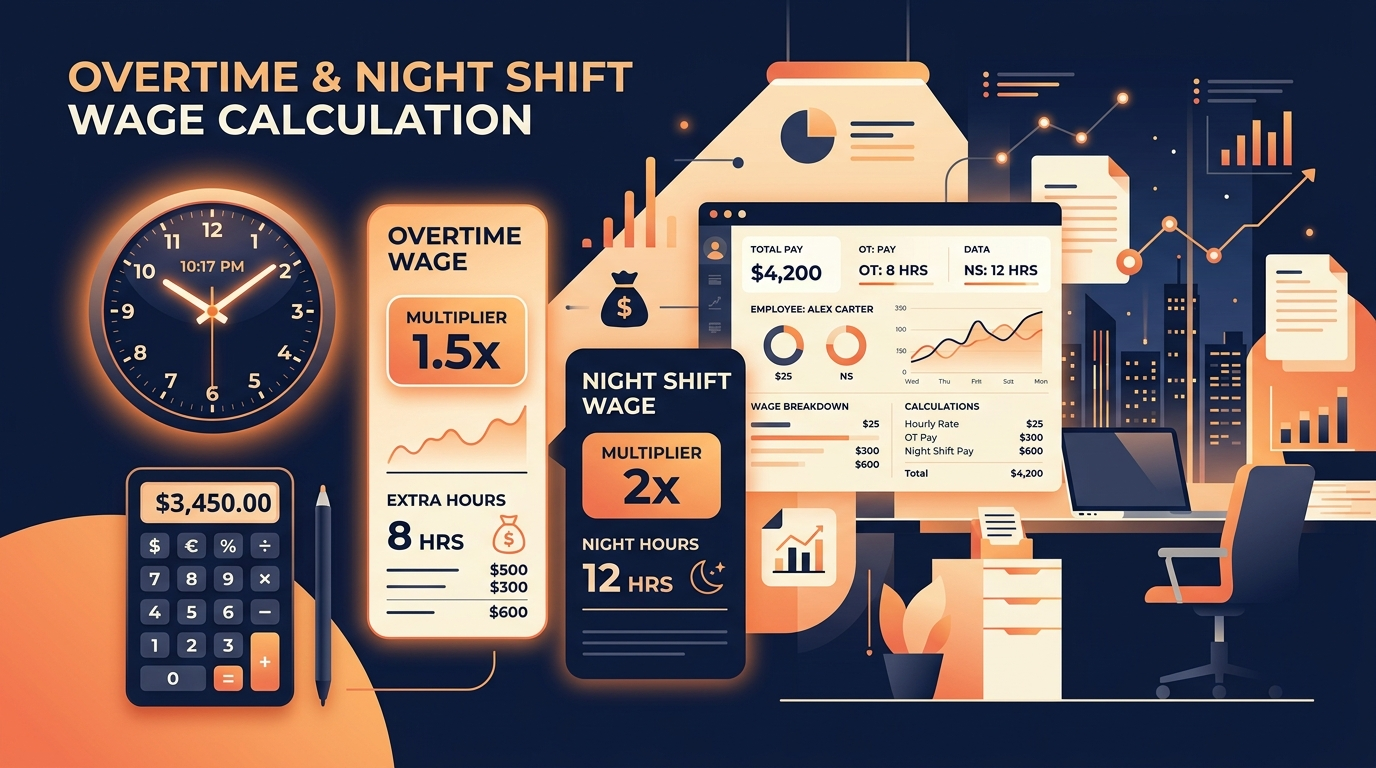
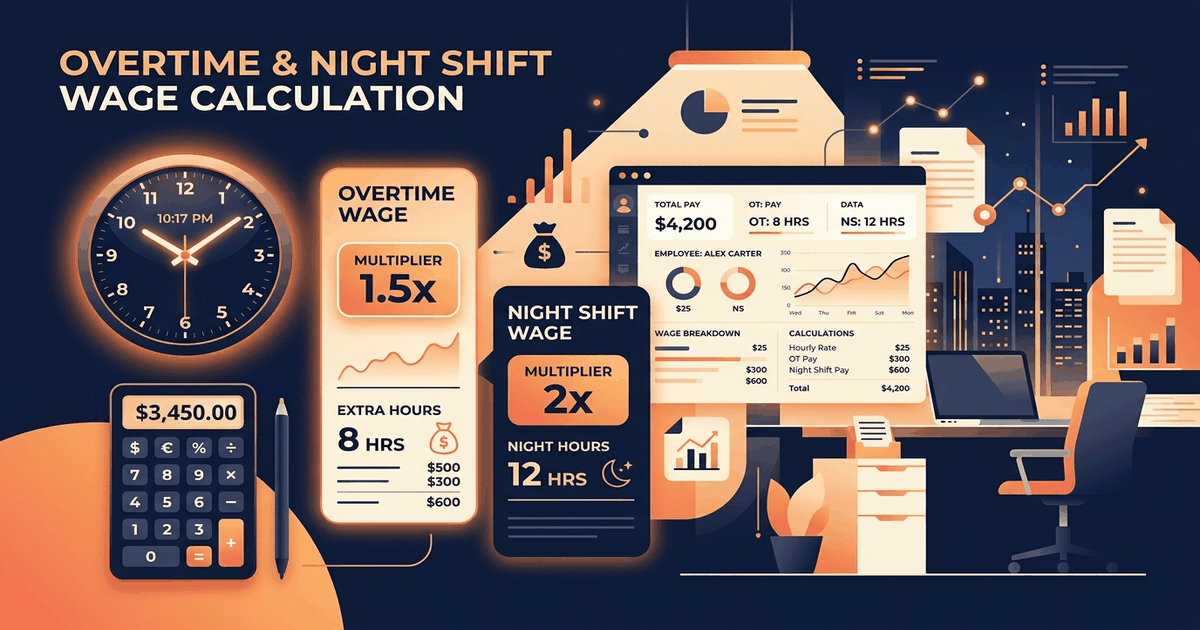
feat(social): optimize og-image (1200x630) and synchronize Open Graph & Twitter Card tags

diff --git a/index.html b/index.html
@@ -101,7 +101,6 @@
 </header>
 <!-- 상단 슬림 띠배너 (헤더 직하단: 50~60px 슬림형) -->
 <div class="manual-ad-box ad-top-banner" style="width: 100%; max-width: 960px; margin: 8px auto 16px; text-align: center;">
-
 <ins class="adsbygoogle" data-ad-client="ca-pub-2228289204702106" data-ad-format="horizontal" data-ad-slot="3824727725" data-full-width-responsive="true" style="display:inline-block;width:100%;height:60px;"></ins>
 <script>(adsbygoogle = window.adsbygoogle || []).push({});</script>
 </div>
@@ -372,40 +371,37 @@
 <!-- 본문 중간 반응형 배너 -->
 </section></div></main>
 <!-- Footer -->
-
 <!-- 🔗 연관 유틸리티 도구 추천 카드 (사용자 체류시간 증가 & SEO 내부 링크) -->
 <section class="max-w-4xl mx-auto my-8 px-4">
-  <div class="bg-slate-50 dark:bg-slate-900/60 border border-slate-200 dark:border-slate-800 rounded-2xl p-6 shadow-sm">
-    <h3 class="text-base font-black text-slate-900 dark:text-white mb-4 flex items-center gap-2">
-      <span>💡</span> 함께 많이 활용하는 필수 계산기 & 도구
+<div class="bg-slate-50 dark:bg-slate-900/60 border border-slate-200 dark:border-slate-800 rounded-2xl p-6 shadow-sm">
+<h3 class="text-base font-black text-slate-900 dark:text-white mb-4 flex items-center gap-2">
+<span>💡</span> 함께 많이 활용하는 필수 계산기 &amp; 도구
     </h3>
-    <div class="grid grid-cols-1 sm:grid-cols-3 gap-3.5">
-      
-      <a href="https://severance.enjoy-onepage.com/" class="p-4 bg-white dark:bg-slate-800 rounded-xl border border-slate-200 dark:border-slate-700 hover:border-blue-500 hover:shadow-md transition flex items-center justify-between group">
-        <div>
-          <div class="text-xs text-blue-600 dark:text-blue-400 font-bold mb-1">추천 유틸리티</div>
-          <div class="text-sm font-black text-slate-800 dark:text-slate-100 group-hover:text-blue-600 transition">퇴직금 계산기</div>
-        </div>
-        <span class="text-slate-400 group-hover:translate-x-1 transition font-bold">→</span>
-      </a>
-      <a href="https://unemployed.enjoy-onepage.com/" class="p-4 bg-white dark:bg-slate-800 rounded-xl border border-slate-200 dark:border-slate-700 hover:border-blue-500 hover:shadow-md transition flex items-center justify-between group">
-        <div>
-          <div class="text-xs text-blue-600 dark:text-blue-400 font-bold mb-1">추천 유틸리티</div>
-          <div class="text-sm font-black text-slate-800 dark:text-slate-100 group-hover:text-blue-600 transition">실업급여 모의계산기</div>
-        </div>
-        <span class="text-slate-400 group-hover:translate-x-1 transition font-bold">→</span>
-      </a>
-      <a href="https://calc-half-leave.enjoy-onepage.com/" class="p-4 bg-white dark:bg-slate-800 rounded-xl border border-slate-200 dark:border-slate-700 hover:border-blue-500 hover:shadow-md transition flex items-center justify-between group">
-        <div>
-          <div class="text-xs text-blue-600 dark:text-blue-400 font-bold mb-1">추천 유틸리티</div>
-          <div class="text-sm font-black text-slate-800 dark:text-slate-100 group-hover:text-blue-600 transition">반차·연차 시간 계산기</div>
-        </div>
-        <span class="text-slate-400 group-hover:translate-x-1 transition font-bold">→</span>
-      </a>
-    </div>
-  </div>
+<div class="grid grid-cols-1 sm:grid-cols-3 gap-3.5">
+<a class="p-4 bg-white dark:bg-slate-800 rounded-xl border border-slate-200 dark:border-slate-700 hover:border-blue-500 hover:shadow-md transition flex items-center justify-between group" href="https://severance.enjoy-onepage.com/">
+<div>
+<div class="text-xs text-blue-600 dark:text-blue-400 font-bold mb-1">추천 유틸리티</div>
+<div class="text-sm font-black text-slate-800 dark:text-slate-100 group-hover:text-blue-600 transition">퇴직금 계산기</div>
+</div>
+<span class="text-slate-400 group-hover:translate-x-1 transition font-bold">→</span>
+</a>
+<a class="p-4 bg-white dark:bg-slate-800 rounded-xl border border-slate-200 dark:border-slate-700 hover:border-blue-500 hover:shadow-md transition flex items-center justify-between group" href="https://unemployed.enjoy-onepage.com/">
+<div>
+<div class="text-xs text-blue-600 dark:text-blue-400 font-bold mb-1">추천 유틸리티</div>
+<div class="text-sm font-black text-slate-800 dark:text-slate-100 group-hover:text-blue-600 transition">실업급여 모의계산기</div>
+</div>
+<span class="text-slate-400 group-hover:translate-x-1 transition font-bold">→</span>
+</a>
+<a class="p-4 bg-white dark:bg-slate-800 rounded-xl border border-slate-200 dark:border-slate-700 hover:border-blue-500 hover:shadow-md transition flex items-center justify-between group" href="https://calc-half-leave.enjoy-onepage.com/">
+<div>
+<div class="text-xs text-blue-600 dark:text-blue-400 font-bold mb-1">추천 유틸리티</div>
+<div class="text-sm font-black text-slate-800 dark:text-slate-100 group-hover:text-blue-600 transition">반차·연차 시간 계산기</div>
+</div>
+<span class="text-slate-400 group-hover:translate-x-1 transition font-bold">→</span>
+</a>
+</div>
+</div>
 </section>
-
 <footer class="border-t border-slate-200 bg-white py-8 px-4 text-center">
 <div class="max-w-4xl mx-auto text-xs text-slate-500 space-y-3">
 <div class="flex flex-wrap justify-center gap-4 text-xs font-medium">
@@ -421,7 +417,6 @@
 </footer>
 <!-- 하단 대형 배너 (푸터 직전) -->
 <div class="manual-ad-box ad-bottom-banner" style="width: 100%; max-width: 960px; margin: 24px auto 16px; text-align: center;">
-
 <ins class="adsbygoogle" data-ad-client="ca-pub-2228289204702106" data-ad-format="auto" data-ad-slot="3416334507" data-full-width-responsive="true" style="display:block"></ins>
 <script>(adsbygoogle = window.adsbygoogle || []).push({});</script>
 </div>
